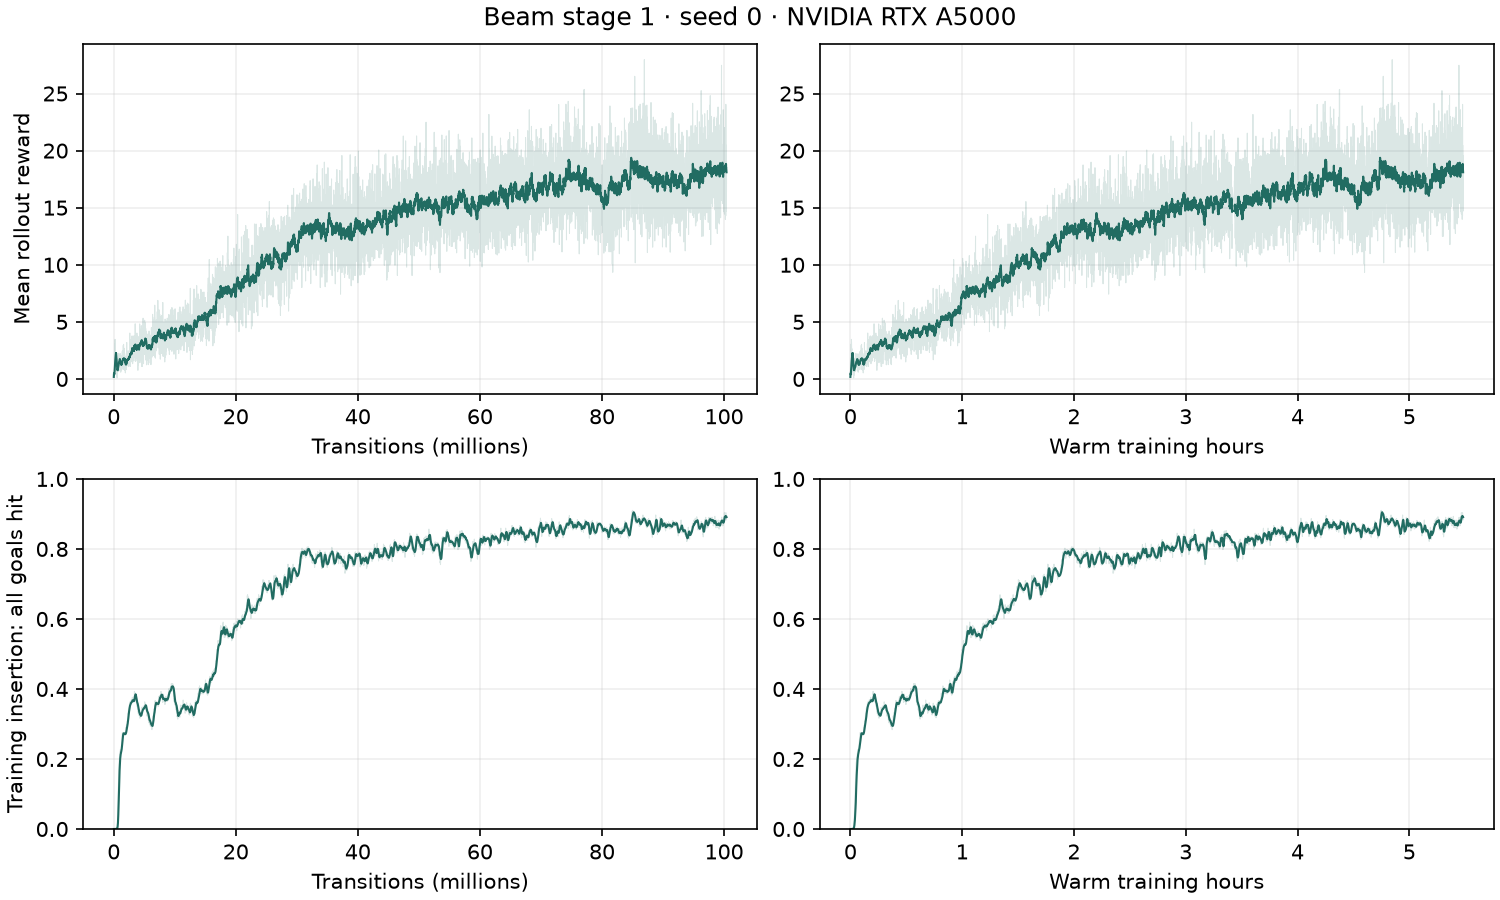
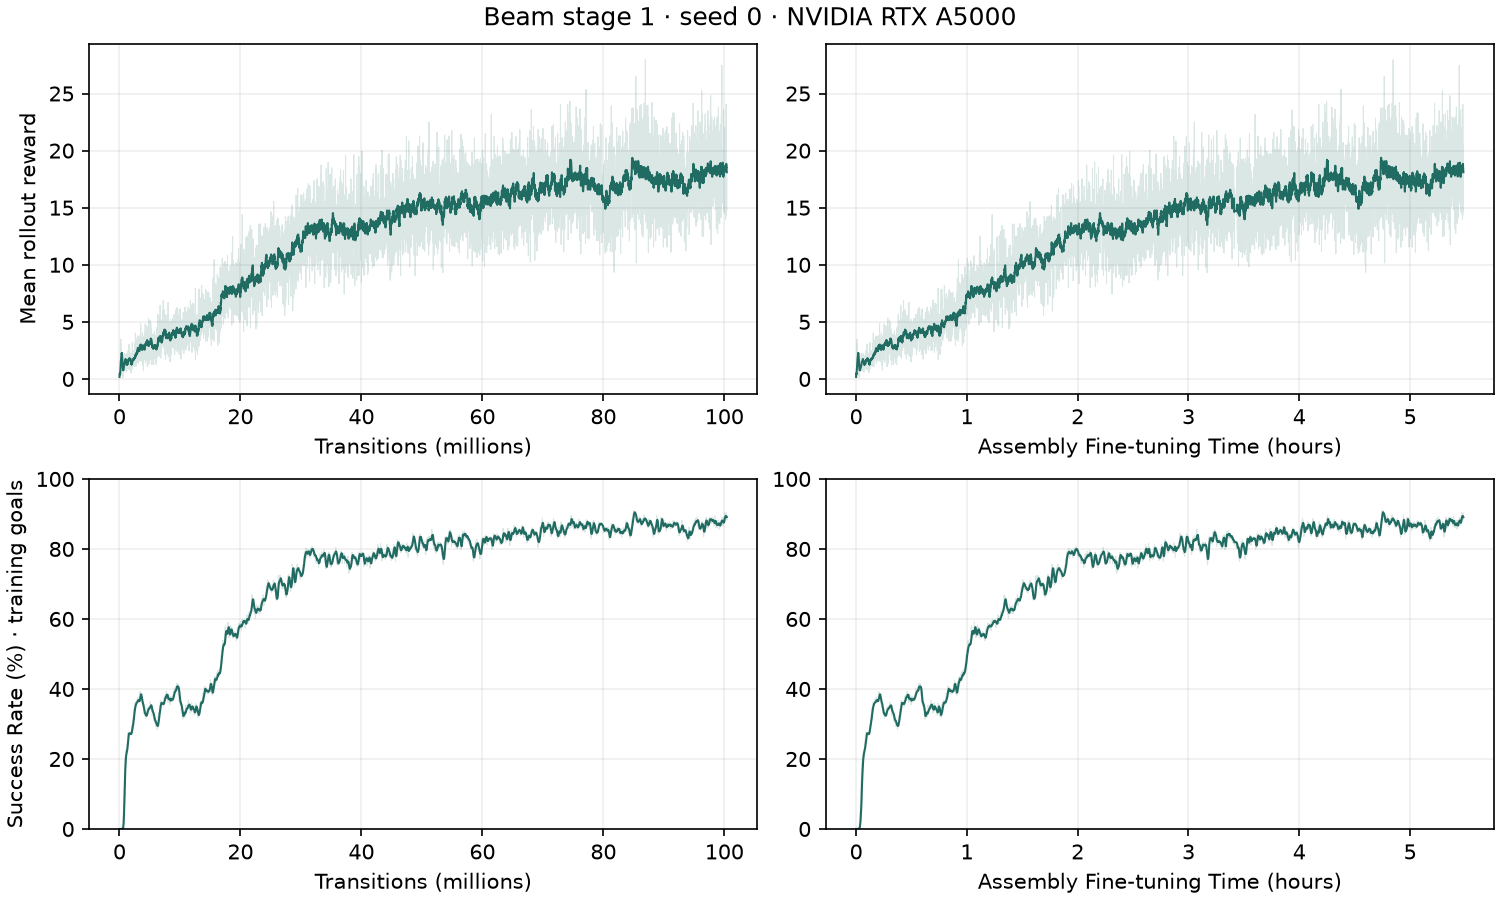
Show assembly training success on percentage axes

diff --git a/mjlab/scripts/plot_reference_curves.py b/mjlab/scripts/plot_reference_curves.py
@@ -38,6 +38,9 @@ def main():
     overview, overview_axes = plt.subplots(
         2, 2, figsize=(10, 6), constrained_layout=True
     )
+    success, success_axes = plt.subplots(2, 2, figsize=(10, 6), constrained_layout=True)
+    mobile, mobile_axes = plt.subplots(4, 1, figsize=(6, 12), constrained_layout=True)
+    summary = {}
     for (recipe, info), overview_axis in zip(
         manifest["runs"].items(), overview_axes.flat, strict=True
     ):
@@ -51,7 +54,7 @@ def main():
         columns = {key: np.array([float(row[key]) for row in rows]) for key in rows[0]}
         restarts = columns["session_restart"].astype(bool)
         xs = [columns["transitions"] / 1e6, columns["warm_seconds"] / 3600]
-        ys = [columns["reward"], columns["training_all_goals_hit"]]
+        ys = [columns["reward"], 100 * columns["training_all_goals_hit"]]
         figure, axes = plt.subplots(2, 2, figsize=(10, 6), constrained_layout=True)
         for row, values in enumerate(ys):
             smoothed = trailing_mean(values, restarts)
@@ -60,15 +63,17 @@ def main():
                 axis.plot(x, values, color="#216c62", alpha=0.16, linewidth=0.5)
                 axis.plot(x, smoothed, color="#216c62", linewidth=1)
                 axis.set_xlabel(
-                    "Transitions (millions)" if column == 0 else "Warm training hours"
+                    "Transitions (millions)"
+                    if column == 0
+                    else "Assembly Fine-tuning Time (hours)"
                 )
                 axis.grid(alpha=0.2)
                 if row == 1:
-                    axis.set_ylim(0, 1)
+                    axis.set_ylim(0, 100)
             axes[row, 0].set_ylabel(
                 "Mean rollout reward"
                 if row == 0
-                else "Training insertion: all goals hit"
+                else "Success Rate (%) · training goals"
             )
         figure.suptitle(f"{info['title']} · seed 0 · {info['hardware']}")
         figure.savefig(args.output / f"{recipe}.png", dpi=150)
@@ -77,12 +82,63 @@ def main():
             xs[1], trailing_mean(ys[0], restarts), color="#216c62", linewidth=1
         )
         overview_axis.set_title(info["title"])
-        overview_axis.set_xlabel("Warm training hours")
+        overview_axis.set_xlabel("Assembly Fine-tuning Time (hours)")
         overview_axis.set_ylabel("Mean rollout reward")
         overview_axis.grid(alpha=0.2)
-    overview.suptitle("Direct play-foundation fine-tuning in MJLab · one training seed")
+        smoothed_success = trailing_mean(ys[1], restarts)
+        for success_axis in (
+            success_axes.flat[len(summary)],
+            mobile_axes[len(summary)],
+        ):
+            success_axis.plot(xs[1], smoothed_success, color="#216c62", linewidth=1.4)
+            success_axis.set(
+                title=info["title"].replace("Beam stage", "Multipart assembly · stage"),
+                xlabel="Assembly Fine-tuning Time (hours)",
+                ylabel="Success Rate (%)",
+                ylim=(0, 100),
+                xlim=(0, None),
+                yticks=[0, 20, 40, 60, 80, 100],
+            )
+            for index, boundary in enumerate(xs[1][restarts]):
+                success_axis.axvline(
+                    boundary,
+                    color="#888888",
+                    linewidth=0.8,
+                    linestyle=":",
+                    label="Session restart" if index == 0 else None,
+                )
+            if restarts.any():
+                success_axis.legend(loc="lower right", fontsize=8)
+            success_axis.grid(alpha=0.2)
+        summary[recipe] = {
+            "title": info["title"],
+            "final_percent": float(smoothed_success[-1]),
+            "peak_percent": float(smoothed_success.max()),
+            "final_raw_percent": float(ys[1][-1]),
+            "training_hours": float(xs[1][-1]),
+            "data_sha256": info["sha256"],
+        }
+    overview.suptitle("MJLab assembly fine-tuning from the pre-trained play policy")
     overview.savefig(args.output / "reward_overview.png", dpi=150)
     plt.close(overview)
+    success.suptitle("MJLab · training goal completion · one seed per task")
+    success.savefig(args.output / "success_overview.png", dpi=150)
+    plt.close(success)
+    mobile.suptitle("MJLab · training goal completion\nOne seed per task")
+    mobile.savefig(args.output / "success_overview_mobile.png", dpi=150)
+    plt.close(mobile)
+    (args.output / "success_summary.json").write_text(
+        json.dumps(
+            {
+                "metric": "Training all-goal completion, not clean-release evaluation",
+                "smoothing": "Trailing mean of up to 20 updates; reset per session",
+                "time": manifest["time_definition"],
+                "runs": summary,
+            },
+            indent=2,
+        )
+        + "\n"
+    )
     print(args.output)
 
 

diff --git a/mjlab/scripts/plot_training.py b/mjlab/scripts/plot_training.py
@@ -82,19 +82,19 @@ def main():
         np.array([row["recorded_process_seconds"] for row in rows]) / 3600,
     ]
     rewards = np.array([row["block_mean_reward"] for row in rows]).mean(axis=1)
-    goals = np.array([row["previous_insertion_all_goals_hit"] for row in rows])
+    goals = 100 * np.array([row["previous_insertion_all_goals_hit"] for row in rows])
     figure, axes = plt.subplots(2, 2, figsize=(11, 7), constrained_layout=True)
     for column, (x, label) in enumerate(
-        zip(xs, ["Transitions (millions)", "Recorded process time (hours)"])
+        zip(xs, ["Transitions (millions)", "Assembly Fine-tuning Time (hours)"])
     ):
         axes[0, column].plot(x, rewards, color="#216c62")
         axes[1, column].plot(x, goals, color="#216c62")
-        axes[1, column].set_ylim(0, 1)
+        axes[1, column].set_ylim(0, 100)
         for axis in axes[:, column]:
             axis.set_xlabel(label)
             axis.grid(alpha=0.2)
     axes[0, 0].set_ylabel("Mean rollout reward, six SAPG blocks")
-    axes[1, 0].set_ylabel("Training insertion: all goals hit")
+    axes[1, 0].set_ylabel("Success Rate (%) · training goals")
     figure.suptitle("MJLab training diagnostics — not held-out policy success")
     figure.savefig(args.output / "training_curves.png", dpi=180)
     figure.savefig(args.output / "training_curves.svg")

diff --git a/mjlab/docs/REPRODUCING.md b/mjlab/docs/REPRODUCING.md
@@ -16,10 +16,34 @@ these as reference experiments, not a guarantee of identical curves.
 
 ## Reference results
 
+![MJLab training success rates](media/success_overview.png)
+
+The y-axis is **Success Rate (%)**, from 0 to 100. Success means all assembly
+goals reached in the latest completed training episode per world. It does not
+require clean withdrawal or retention after release. The x-axis is
+**Assembly Fine-tuning Time (hours)**, using the recorded warm-time clock below.
+
+| Task | Final training success | Peak training success |
+|---|---:|---:|
+| Long-leg screwing | 89.7% | 91.8% |
+| Tight insertion | 76.4% | 77.6% |
+| Multipart stage 1 | 89.1% | 90.5% |
+| Multipart stage 2 | 69.4% | 72.0% |
+
+These are the final and peak values of the plotted trailing mean, not frozen-policy
+test scores. All four tasks are shown. Raw values and exact summaries are available
+in the [reference data](reference/manifest.json) and [plot summary](media/success_summary.json).
+
+<details>
+<summary>Reward curves</summary>
+
 ![MJLab reward curves](media/reward_overview.png)
+
+</details>
 
 Each line uses a trailing mean of up to 20 updates, reset at each session boundary.
 The included compressed CSV files retain every accepted scalar without smoothing.
+The dotted lines mark session restarts; brief dips include reset episode counters.
 Reward is the shaped reward per control step, averaged over six equal-size SAPG
 blocks. It is not episode return. Each task has its own reward scale.
 

diff --git a/mjlab/README.md b/mjlab/README.md
@@ -23,10 +23,15 @@ rollouts, rendered in MuJoCo at 1× simulation time from recorded states.
 | <img src="docs/media/multipart.gif" width="260" alt="Two-part beam assembly, with the first part fixed at handoff"> | Multipart<br>`beam_step1_v1` + `beam_step2_v1` · [MP4](docs/media/multipart.mp4) | 100.41M / 100.60M steps per stage; one composed sequence |
 
 Multipart fixes the first part after handoff; stage scores are reported separately.
-See [reproduction instructions and reward curves](docs/REPRODUCING.md) for the
+See [reproduction instructions and training curves](docs/REPRODUCING.md) for the
 checkpoint budgets, evaluation protocols and release-stability results.
 
-![MJLab fine-tuning rewards from the pre-trained play policy](docs/media/reward_overview.png)
+![MJLab training success rates from the pre-trained play policy](docs/media/success_overview.png)
+
+Success here means all assembly goals reached during training. The curves use a
+20-update trailing mean and a 0–100% scale. Clean withdrawal is measured separately
+in the table above. [Reward curves and metric definitions](docs/REPRODUCING.md#reference-results)
+remain available.
 
 ## Install and prepare
 

diff --git a/README.md b/README.md
@@ -89,7 +89,7 @@ checkpoint details and evaluation results.
 | <img src="mjlab/docs/media/multipart.gif" width="220" alt="KUKA and Sharpa assemble two beam parts in MJLab"> | Two-stage beam assembly · [MP4](mjlab/docs/media/multipart.mp4) | 100.41M / 100.60M per stage; first part fixed at handoff |
 
 See [task demos and recipes](mjlab/README.md#task-demos),
-[reward curves](mjlab/docs/REPRODUCING.md), and
+[training curves](mjlab/docs/REPRODUCING.md), and
 [software validation](mjlab/validation/README.md).
 
 ## Installation
